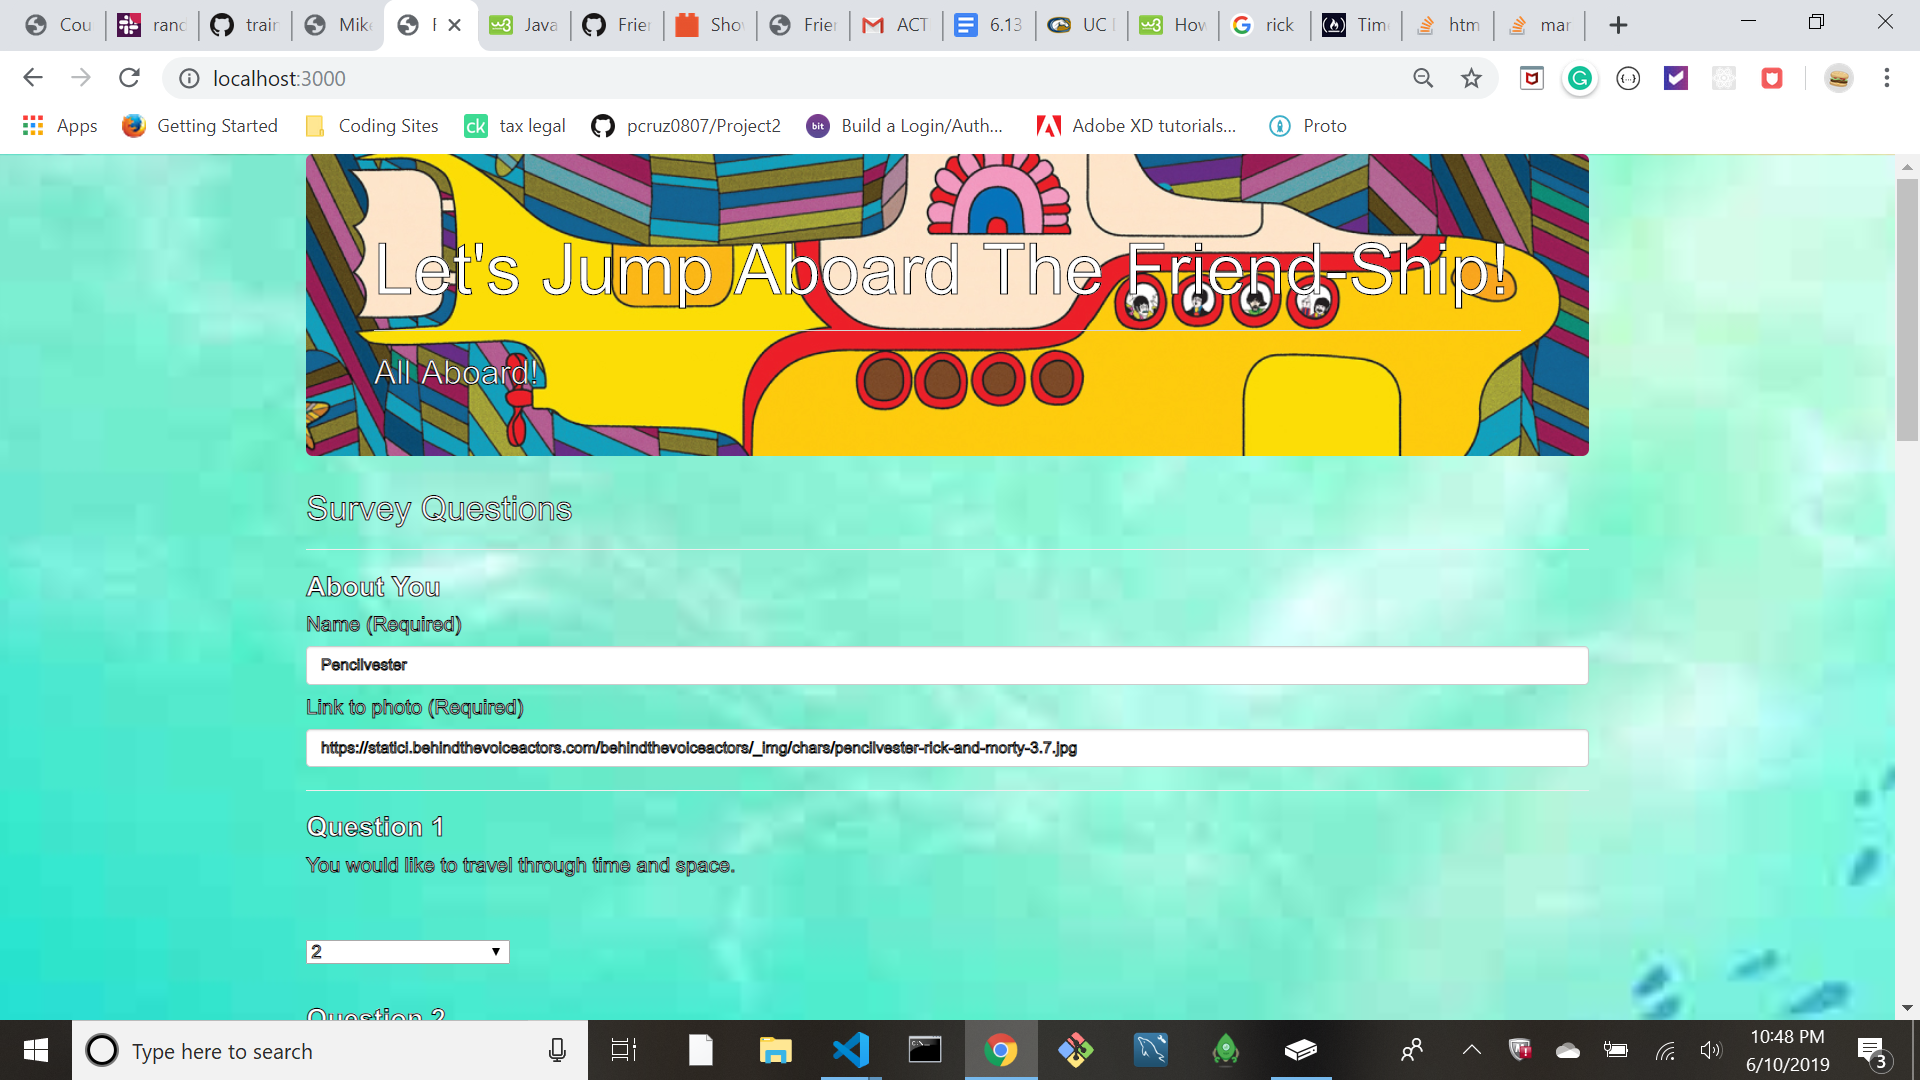
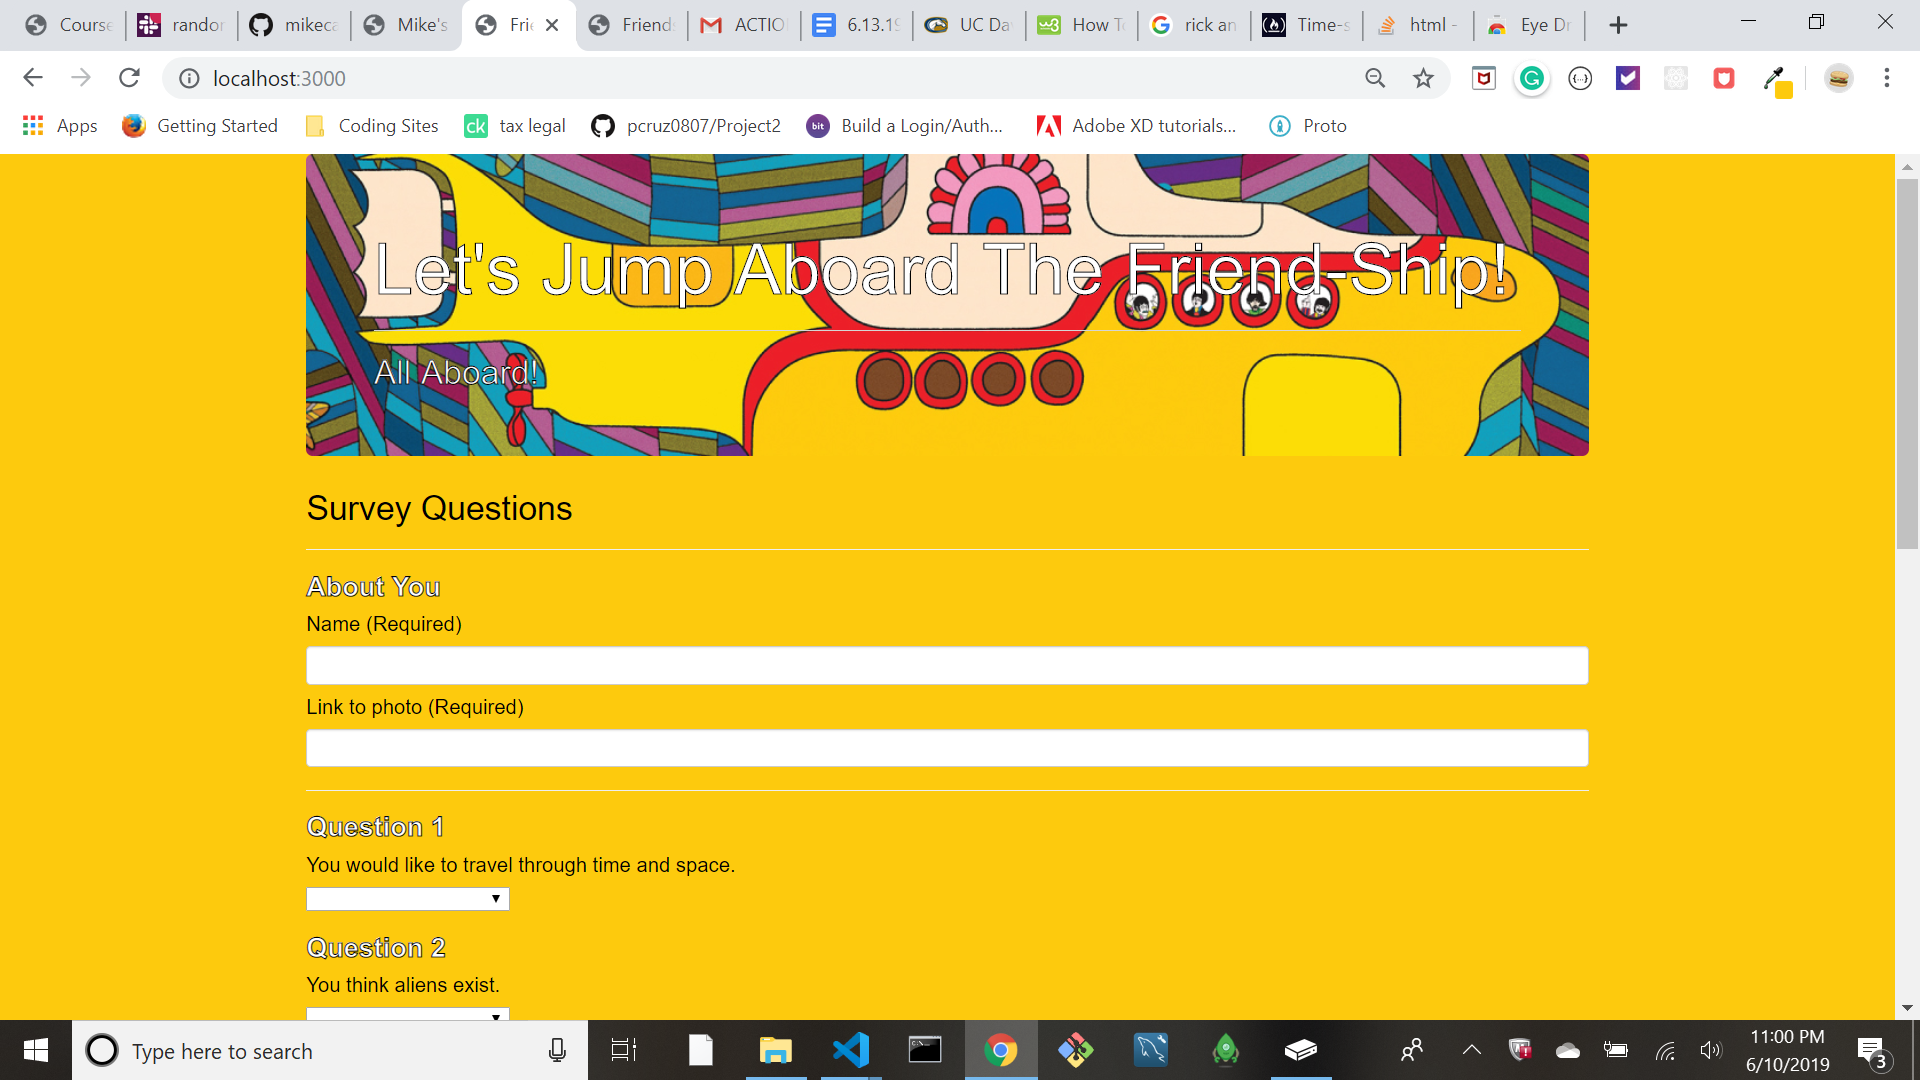
final push

diff --git a/app/public/style.css b/app/public/style.css
@@ -2,20 +2,20 @@
   background: url("https://enzian.org/wp-content/uploads/2018/07/Yellow-Submarine-Hero.jpg");
   background-size: cover;
   background-position: center;
- 
-}
-
-body {
-  background: url("https://cdn.shopify.com/s/files/1/1930/9599/products/MJ00021-E.jpg?v=1495870229");
-  background-size: cover;
-  background-position: center;
-  color: black;
   -webkit-text-fill-color: white; 
   -webkit-text-stroke-width: 1px;
   -webkit-text-stroke-color: black;
   font-size: 6rem;
+
 }
 
-.chosen-select {
-    font-size: 16px;
+body {
+  background: #fdca0d;
+  color: black;
+}
+
+h3 {
+  -webkit-text-fill-color: white; 
+  -webkit-text-stroke-width: 1px;
+  -webkit-text-stroke-color: black;
 }

diff --git a/README.md b/README.md
@@ -1,1 +1,3 @@
 ![Project Image](./screenshot.png?raw=true)
+
+This project allows the user to fill out a simple survey and match to their new best friend, and ship-mate. Simply fill out the ten questions, your name, and a link to a photo of you!
